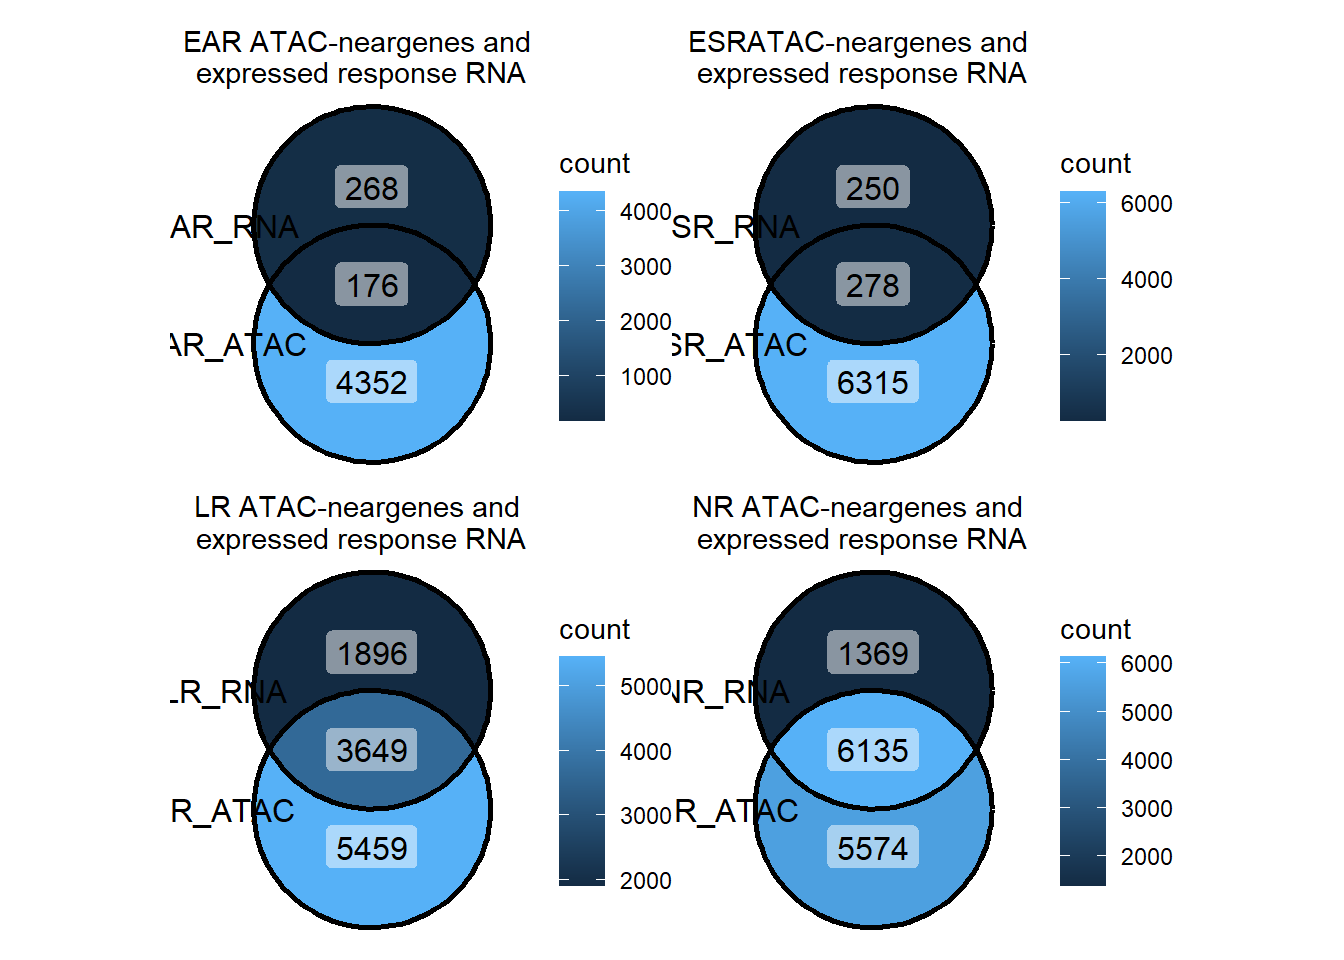
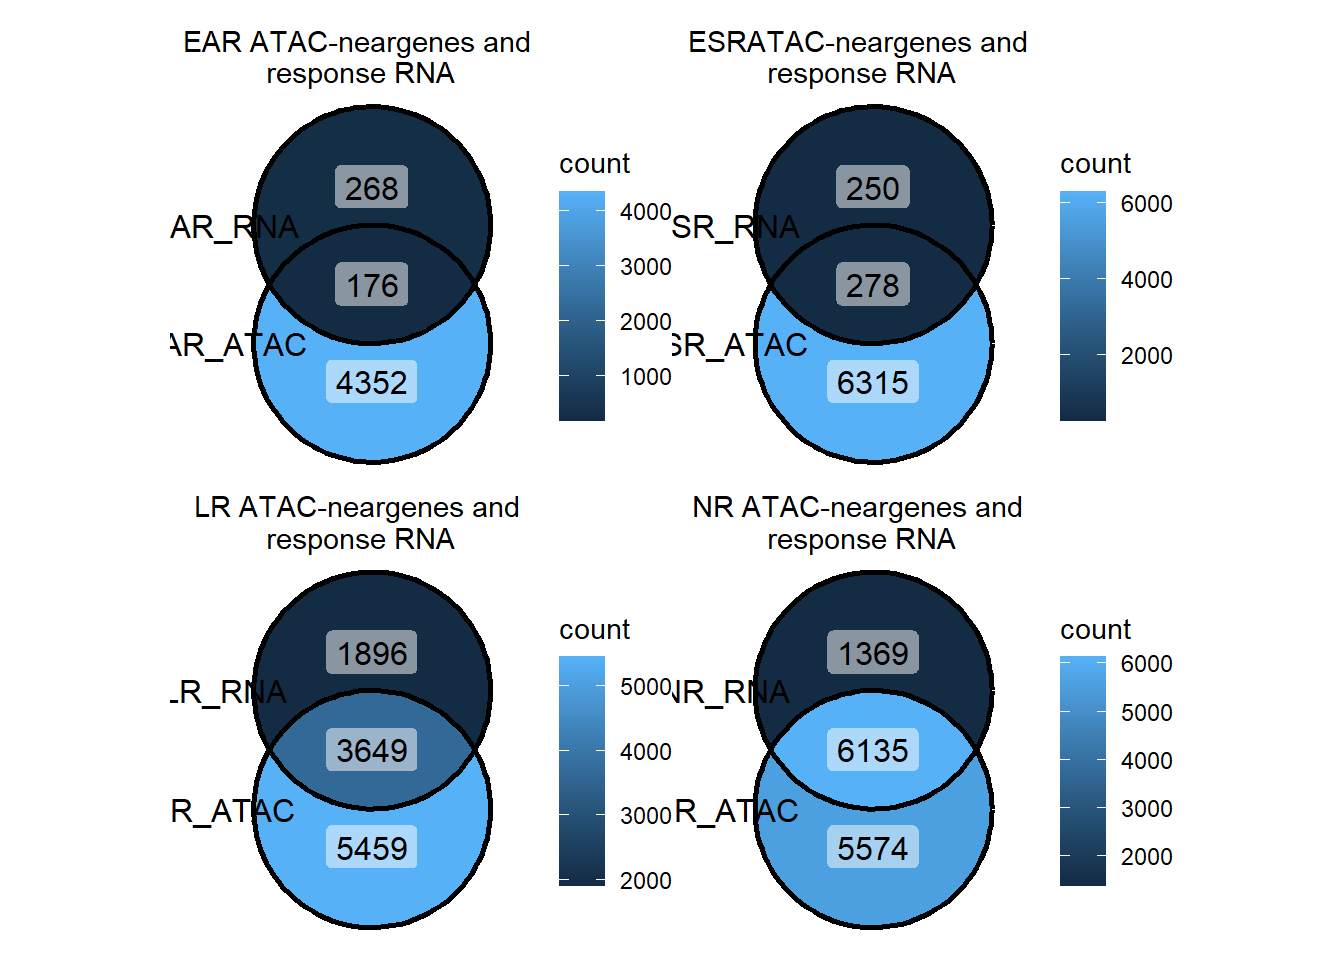
Build site.

diff --git a/docs/Enhancer_files.html b/docs/Enhancer_files.html
@@ -523,15 +523,15 @@ project makes it easier to run your code on other machines.</p>
 <div class="panel panel-default">
 <div class="panel-heading">
 <p class="panel-title">
-<a data-toggle="collapse" data-parent="#workflowr-checks" href="#strongRepositoryversionstrongahrefhttpsgithubcomreneeisnowhereATAClearningtree1bff9daa6d62a80409d0e7c7a47b3c042ddc54e0targetblank1bff9daa">
+<a data-toggle="collapse" data-parent="#workflowr-checks" href="#strongRepositoryversionstrongahrefhttpsgithubcomreneeisnowhereATAClearningtree1a169d8856af5b3f7fcb466f619e0ceed3a838catargetblank1a169d8a">
 <span class="glyphicon glyphicon-ok text-success"
 aria-hidden="true"></span> <strong>Repository version:</strong>
-<a href="https://github.com/reneeisnowhere/ATAC_learning/tree/1bff9daa6d62a80409d0e7c7a47b3c042ddc54e0" target="_blank">1bff9da</a>
+<a href="https://github.com/reneeisnowhere/ATAC_learning/tree/1a169d8856af5b3f7fcb466f619e0ceed3a838ca" target="_blank">1a169d8</a>
 </a>
 </p>
 </div>
 <div
[2 lines of base64/hex data omitted]
 class="panel-collapse collapse">
 <div class="panel-body">
 <p>
@@ -541,7 +541,7 @@ reproducibility.
 </p>
 <p>
 The results in this page were generated with repository version
-<a href="https://github.com/reneeisnowhere/ATAC_learning/tree/1bff9daa6d62a80409d0e7c7a47b3c042ddc54e0" target="_blank">1bff9da</a>.
+<a href="https://github.com/reneeisnowhere/ATAC_learning/tree/1a169d8856af5b3f7fcb466f619e0ceed3a838ca" target="_blank">1a169d8</a>.
 See the <em>Past versions</em> tab to see a history of the changes made
 to the R Markdown and HTML files.
 </p>
@@ -767,6 +767,40 @@ Message
 </tr>
 </thead>
 <tbody>
+<tr>
+<td>
+Rmd
+</td>
+<td>
+<a href="https://github.com/reneeisnowhere/ATAC_learning/blob/1a169d8856af5b3f7fcb466f619e0ceed3a838ca/analysis/Enhancer_files.Rmd" target="_blank">1a169d8</a>
+</td>
+<td>
+reneeisnowhere
+</td>
+<td>
+2024-06-25
+</td>
+<td>
+code cleanup again
+</td>
+</tr>
+<tr>
+<td>
+html
+</td>
+<td>
+<a href="https://rawcdn.githack.com/reneeisnowhere/ATAC_learning/b83d337d73bdf531803e9eb195e553c03b645818/docs/Enhancer_files.html" target="_blank">b83d337</a>
+</td>
+<td>
+reneeisnowhere
+</td>
+<td>
+2024-06-25
+</td>
+<td>
+Build site.
+</td>
+</tr>
 <tr>
 <td>
 Rmd
@@ -1373,26 +1407,26 @@ reneeisnowhere
 </div>
 <pre class="r"><code>ggVennDiagram::ggVennDiagram(list(as.character(EAR_peak_list_all$entrezgene_id),EAR_RNA$ENTREZID),
               category.names = c(&quot;EAR_ATAC&quot;,&quot;EAR_RNA&quot;), label = &quot;count&quot;)+
-  labs(title = &quot;EAR ATAC-neargenes and\n expressed response RNA&quot;)+
+  labs(title = &quot;EAR ATAC-neargenes and\n response RNA&quot;)+
   theme(plot.title = element_text(size = rel(1.0), hjust = 0.5))+
   scale_x_continuous(expand = expansion(mult = .2))+
   
 
 ggVennDiagram::ggVennDiagram(list(as.character(ESR_peak_list_all$entrezgene_id),ESR_RNA$ENTREZID),
               category.names = c(&quot;ESR_ATAC&quot;,&quot;ESR_RNA&quot;), label = &quot;count&quot;)+
-  labs(title = &quot;ESRATAC-neargenes and\n expressed response RNA&quot;)+
+  labs(title = &quot;ESRATAC-neargenes and\n response RNA&quot;)+
   theme(plot.title = element_text(size = rel(1.0), hjust = 0.5))+
   scale_x_continuous(expand = expansion(mult = .2))+
 
 ggVennDiagram::ggVennDiagram(list(as.character(LR_peak_list_all$entrezgene_id),LR_RNA$ENTREZID),
               category.names = c(&quot;LR_ATAC&quot;,&quot;LR_RNA&quot;), label = &quot;count&quot;)+
-  labs(title = &quot;LR ATAC-neargenes and\n expressed response RNA&quot;)+
+  labs(title = &quot;LR ATAC-neargenes and\n response RNA&quot;)+
   theme(plot.title = element_text(size = rel(1.0), hjust = 0.5))+
   scale_x_continuous(expand = expansion(mult = .2))+
 
 ggVennDiagram::ggVennDiagram(list(as.character(NR_peak_list_all$entrezgene_id),NR_RNA$ENTREZID),
               category.names = c(&quot;NR_ATAC&quot;,&quot;NR_RNA&quot;), label = &quot;count&quot;)+
-  labs(title = &quot;NR ATAC-neargenes and\n expressed response RNA&quot;)+
+  labs(title = &quot;NR ATAC-neargenes and\n response RNA&quot;)+
   theme(plot.title = element_text(size = rel(1.0), hjust = 0.5))+ 
   scale_x_continuous(expand = expansion(mult = .2))</code></pre>
 <p><img src="figure/Enhancer_files.Rmd/Venns%20of%20data-2.png" width="672" style="display: block; margin: auto;" /></p>
